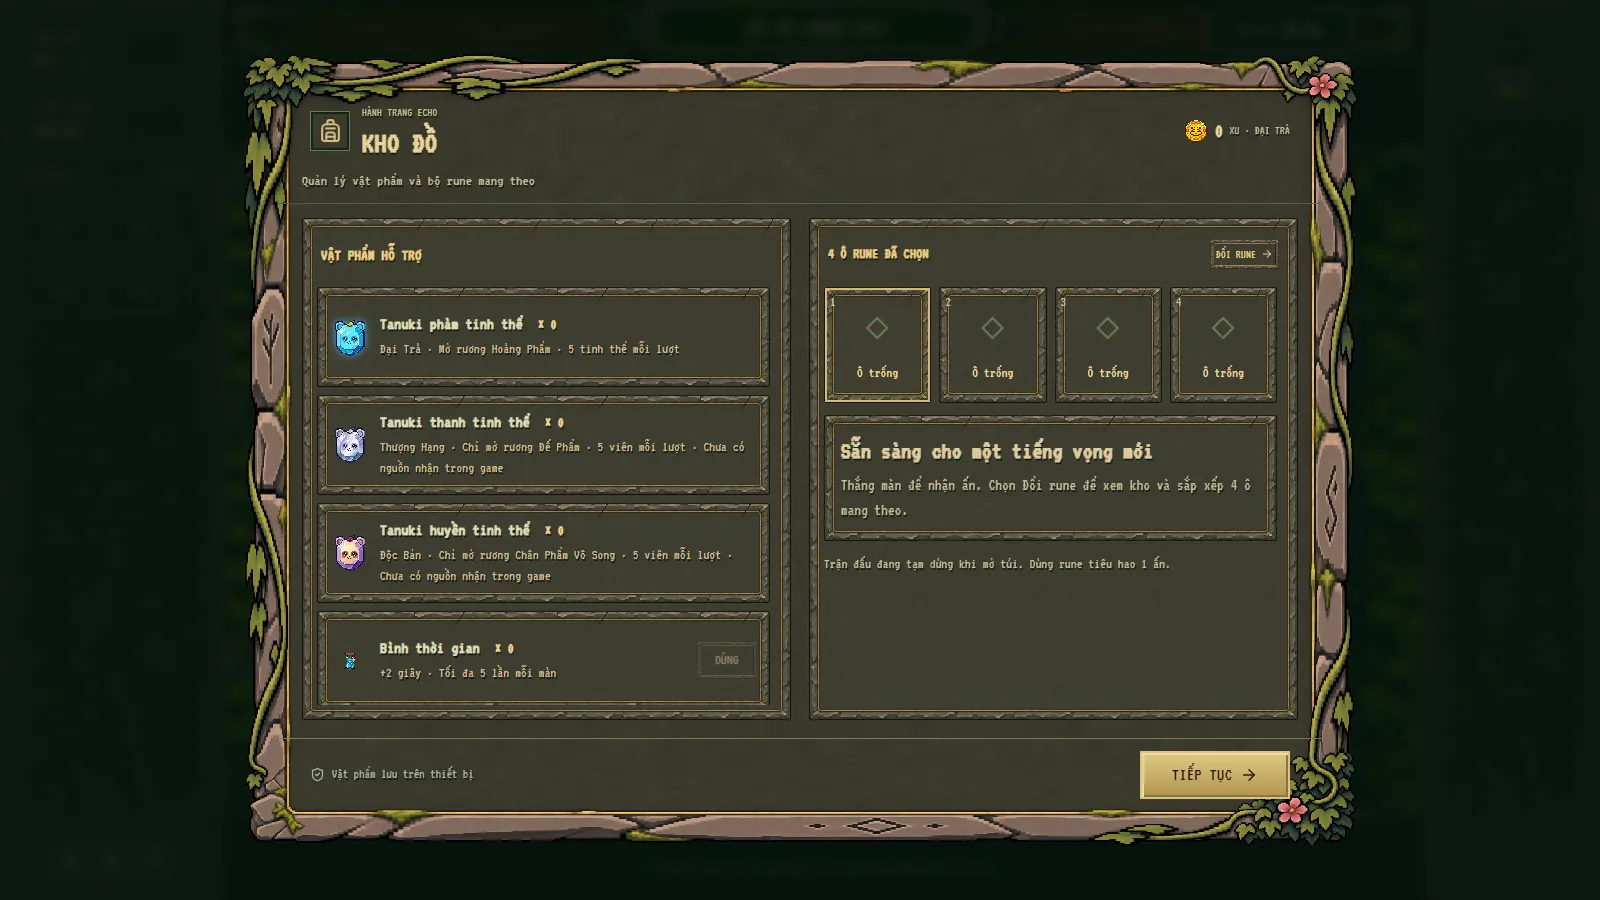
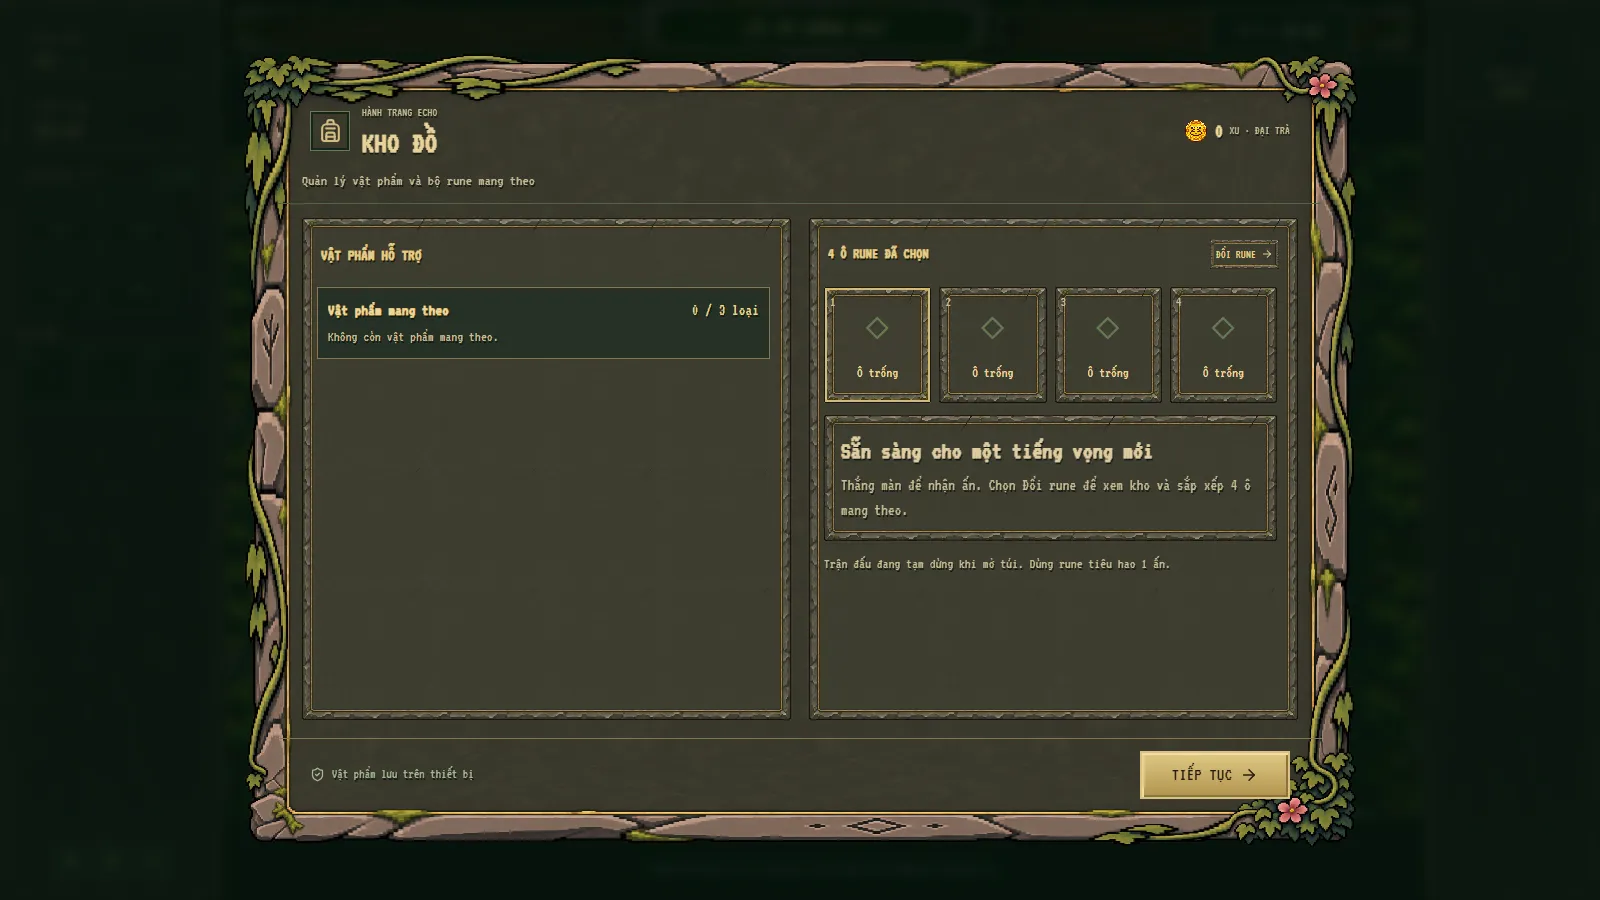
Guide: follow the battle item loadouts
- Keys: 1-3 use the carried item slots, Shift + 1-6 (or 4-6) select an Echo,
  Tab opens the inventory; time potions only work when packed for the battle.
- New page "Packing items for a battle" with a screenshot of the packing
  window; desktop HUD, inventory and phone screenshots captured again.
- check-touch.mjs packs a time potion through the packing window by touch
  before using it; scripts note VITE_GAME_DEV_TOOLS=1 for window.__engine.

Changed region(s): [[0.1875, 0.3111, 0.5, 0.8089]]

diff --git a/src/components/guide/guideContent.ts b/src/components/guide/guideContent.ts
@@ -9,7 +9,7 @@ import { MAX_MP, MP_REGEN_PER_SECOND, MP_REGEN_DELAY, skillManaCost, COMBO_MP } 
 import { ICE_MAGIC, ENEMY_CHILL, FROST_STRIKE } from '../../game/logic/iceMagic.ts';
 import { AERIS_ULT, RAGE } from '../../game/logic/ultimate.ts';
 import { ECHO_RUNES } from '../../game/logic/echoRunes.ts';
-import { SHOP_ITEMS } from '../../game/logic/shopItems.ts';
+import { SHOP_ITEMS, ITEM_LOADOUT_LIMIT } from '../../game/logic/shopItems.ts';
 import { CHEST_PRICES } from '../../game/logic/chest.ts';
 import { HERO_UPGRADE_PRICES, HERO_MAX_RANK, HERO_RESET_FEE_PERCENT } from '../../game/logic/heroUpgrades.ts';
 import { SKILL_PICKUPS } from '../../game/logic/skillPickups.ts';
@@ -55,7 +55,7 @@ export const CONTROLS: { group: L; rows: ControlRow[] }[] = [
     { keys: 'W A S D / ← ↑ → ↓', touch: t('Cần điều khiển (cột trái)', 'Stick (left column)'), action: t('Di chuyển', 'Move') },
     { keys: 'E', touch: t('Nút Ghi hình / Dừng ghi', 'Record / Stop button'), action: t(`Bắt đầu ghi đường đi; bấm lần nữa để lưu (tối đa ${SEC} giây, đủ ${SEC} giây tự lưu)`, `Start recording your path; press again to save (up to ${SEC} s, saved automatically at ${SEC} s)`) },
     { keys: 'Q', touch: t('Nút Gọi Echo', 'Summon Echo button'), action: t('Gọi Echo phát lại bản ghi (tốn 1 lượt Echo)', 'Summon an Echo that replays the recording (costs 1 Echo charge)') },
-    { keys: '1 – 6', touch: t('Nút số trên dải Echo (bấm để chuyển)', 'Number button on the Echo strip (tap to cycle)'), action: t('Chọn Echo', 'Select an Echo') },
+    { keys: 'Shift + 1 – 6 (hoặc 4 – 6)', touch: t('Nút số trên dải Echo (bấm để chuyển)', 'Number button on the Echo strip (tap to cycle)'), action: t('Chọn Echo (phím 1–3 không có Shift là dùng vật phẩm)', 'Select an Echo (1–3 without Shift use items)') },
     { keys: 'C', touch: t('Nút ❚❚ / ▶ trên dải Echo', '❚❚ / ▶ on the Echo strip'), action: t('Tạm dừng / cho Echo đang chọn chạy tiếp', 'Pause / resume the selected Echo') },
     { keys: 'X', touch: t('Nút Thu Echo', 'Recall Echo button'), action: t('Thu hồi Echo đã gọi lâu nhất', 'Recall the oldest Echo') },
     { keys: 'Shift + Q', touch: t('Nút ⇄ trên dải Echo', '⇄ on the Echo strip'), action: t('Đổi chỗ với Echo đang chọn (đường thẳng không được có tường/cổng; tốn 30 ổn định, chờ 7 giây)', 'Swap places with the selected Echo (no wall or gate on the straight line; costs 30 stability, 7 s cooldown)') },
@@ -68,10 +68,11 @@ export const CONTROLS: { group: L; rows: ControlRow[] }[] = [
     { keys: 'Shift', touch: t('Nút Né tránh', 'Dodge button'), action: t('Lướt né (chỉ khi còn quái hoặc boss; chờ 1,2 giây)', 'Dodge (only while enemies or a boss remain; 1.2 s cooldown)') },
   ] },
   { group: t('Vật phẩm & hệ thống', 'Items & system'), rows: [
-    { keys: 'R', touch: t('Túi đồ → Bình thời gian', 'Inventory → Time potion'), action: t('Dùng Bình thời gian: +2 giây cho chặng (tối đa 5 lần mỗi màn)', 'Use a Time potion: +2 s for this leg (up to 5 per level)') },
-    { keys: '—', touch: t('Nút Túi đồ', 'Inventory button'), action: t('Bình hồi máu, năng lượng, ấn nâng Echo', 'Healing and energy potions, Echo runes') },
+    { keys: '1 – 3', touch: t('Túi đồ → DÙNG ở vật phẩm mang theo', 'Inventory → USE on a carried item'), action: t(`Dùng vật phẩm ở ô mang theo 1–${ITEM_LOADOUT_LIMIT} (chọn trước khi vào trận)`, `Use the item in carried slot 1–${ITEM_LOADOUT_LIMIT} (packed before the battle)`) },
+    { keys: 'R', touch: t('Túi đồ → Bình thời gian → DÙNG', 'Inventory → Time potion → USE'), action: t('Dùng Bình thời gian đã mang theo: +2 giây cho chặng', 'Use a carried Time potion: +2 s for this leg') },
+    { keys: 'Tab', touch: t('Nút Túi đồ', 'Inventory button'), action: t('Mở Kho đồ: vật phẩm mang theo và ấn nâng Echo (trận tạm dừng khi mở)', 'Open the inventory: carried items and Echo runes (play pauses while open)') },
     { keys: 'Esc / P', touch: t('Nút ❚❚ góc trên', '❚❚ at the top'), action: t('Tạm dừng / tiếp tục', 'Pause / resume') },
-    { keys: 'T', touch: t('Tạm dừng → Chơi lại màn', 'Pause → Retry level'), action: t('Chơi lại màn', 'Retry the level') },
+    { keys: 'T', touch: t('Tạm dừng → Chơi lại màn', 'Pause → Retry level'), action: t('Chơi lại màn (qua bước chọn vật phẩm mang theo)', 'Retry the level (through the item-packing step)') },
     { keys: 'M', touch: t('Tạm dừng → Cài đặt → Tắt âm', 'Pause → Settings → Mute'), action: t('Bật/tắt âm thanh', 'Mute / unmute') },
     { keys: 'F', touch: null, action: t('Bật/tắt toàn màn hình', 'Toggle full screen') },
     { keys: '—', touch: t('Nút ? góc trên / Tạm dừng → Sổ tay', '? at the top / Pause → Guide'), action: t('Mở sổ tay này', 'Open this guide') },
@@ -139,7 +140,7 @@ export const GUIDE: Section[] = [
   { id: 'controls', letter: 'B', title: t('Điều khiển', 'Controls'), pages: [
     { id: 'pc', title: t('Bàn phím & chuột (PC)', 'Keyboard & mouse (PC)'), blocks: [
       { t: 'controls', rows: CONTROLS.flatMap(g => g.rows) },
-      { t: 'figure', fig: { shot: 'hud-desktop', alt: t('Giao diện chơi trên máy tính', 'The desktop play screen'), caption: t('Cột phải: máu (HP), năng lượng (MP) và các nút chiêu kèm phím tắt. Cột trái: màn, thời gian, ấn Echo, cài đặt và túi đồ.', 'Right column: HP, MP and the ability buttons with their keys. Left column: level, time, Echo runes, settings and inventory.') } },
+      { t: 'figure', fig: { shot: 'hud-desktop', alt: t('Giao diện chơi trên máy tính', 'The desktop play screen'), caption: t('Cột phải: máu (HP), năng lượng (MP) và các nút chiêu kèm phím tắt. Cột trái: màn, thời gian, ấn Echo, ô vật phẩm mang theo (1–3), cài đặt, túi đồ và sổ tay.', 'Right column: HP, MP and the ability buttons with their keys. Left column: level, time, Echo runes, carried item slots (1–3), settings, inventory and this guide.') } },
     ] },
     { id: 'touch', title: t('Điện thoại & máy tính bảng', 'Phones & tablets'), blocks: [
       { t: 'p', text: t('Trên điện thoại, game cần cầm ngang. Tất cả chức năng của bàn phím đều có nút cảm ứng tương ứng (bảng dưới).', 'On phones the game needs landscape. Every keyboard function has a touch equivalent (table below).') },
@@ -165,7 +166,7 @@ export const GUIDE: Section[] = [
     ] },
     { id: 'multi', title: t('Nhiều Echo, hoán đổi, thu hồi', 'Several Echoes, swapping, recalling'), topics: ['multi', 'recycle'], blocks: [
       { t: 'list', items: [
-        t('Mỗi Echo giữ bản ghi riêng. Chọn bằng 1–6 (điện thoại: nút số trên dải Echo).', 'Each Echo keeps its own recording. Select with 1–6 (phones: the number on the Echo strip).'),
+        t('Mỗi Echo giữ bản ghi riêng. Chọn bằng Shift + 1–6 hoặc 4–6 (điện thoại: nút số trên dải Echo).', 'Each Echo keeps its own recording. Select with Shift + 1–6 or 4–6 (phones: the number on the Echo strip).'),
         t('C tạm dừng / cho Echo đang chọn chạy tiếp.', 'C pauses / resumes the selected Echo.'),
         t('X luôn thu Echo đã gọi lâu nhất.', 'X always recalls the oldest Echo.'),
         t('Shift + Q đổi chỗ với Echo đang chọn khi đường thẳng giữa hai bên không có tường hay cổng. Tốn 30 ổn định của Echo, chờ 7 giây (ấn Hoán ảnh: 15 và 4 giây).', 'Shift + Q swaps places with the selected Echo when the straight line between you is free of walls and gates. Costs 30 of its stability, 7 s cooldown (Phasewalk rune: 15 and 4 s).'),
@@ -177,7 +178,7 @@ export const GUIDE: Section[] = [
       { t: 'list', items: [
         t('Mỗi chặng (từ ấn này tới ấn kế tiếp) có thời gian riêng; hết giờ là thua. Tới ấn kế tiếp là nạp lại. Trận boss không tính giờ.', 'Each leg (rune to rune) has its own time; when it runs out you lose. Reaching the next rune refills it. Boss fights are untimed.'),
         t(`Đồng hồ cát xuất hiện gần bạn: nhặt được +${SHARD_BONUS} giây, mỗi chặng một mảnh.`, `An hourglass appears near you: +${SHARD_BONUS} s, one per leg.`),
-        t('Bình thời gian (R hoặc trong túi đồ): +2 giây, tối đa 5 lần mỗi màn.', 'Time potion (R or from the inventory): +2 s, up to 5 per level.'),
+        t('Bình thời gian: +2 giây. Chỉ dùng được bình đã mang theo vào trận (R, phím ô 1–3, hoặc trong túi đồ).', 'Time potion: +2 s. Only potions packed for the battle can be used (R, its slot key 1–3, or the inventory).'),
         t(`Hạ quái: +${ENEMY_TIME_BONUS} giây (không vượt thời gian của chặng) và +1 lượt Echo.`, `Defeating an enemy: +${ENEMY_TIME_BONUS} s (never above the leg's budget) and +1 Echo charge.`),
         t('Xong màn càng nhanh càng nhiều sao (0–3) và xu (0 / 4 / 8 / 12). Mỗi lần thắng được chọn 1 trong 3 ấn nâng Echo.', 'The faster you finish, the more stars (0–3) and coins (0 / 4 / 8 / 12). Every win lets you pick 1 of 3 Echo runes.'),
       ] },
@@ -293,6 +294,14 @@ export const GUIDE: Section[] = [
       { t: 'list', items: [
         t(`Rương Phàm Phẩm: ${CHEST_PRICES.wood.single} xu mỗi lần mở. Rương Hoàng Phẩm: ${CHEST_PRICES.royal.single} Tanuki phàm tinh thể mỗi lần. Phần thưởng ngẫu nhiên (xu, bình, tinh thể…), có lịch sử mở rương. Các rương khác đang được hoàn thiện.`, `Common chest: ${CHEST_PRICES.wood.single} coins per pull. Royal chest: ${CHEST_PRICES.royal.single} Tanuki Common Crystals per pull. Random rewards (coins, potions, crystals…), with a pull history. The other chests are still being finished.`),
         t('Tinh thể nhận được khi thắng màn có sao và khi hạ boss.', 'Crystals come from starred level wins and boss victories.'),
+      ] },
+    ] },
+    { id: 'loadout', title: t('Mang vật phẩm vào trận', 'Packing items for a battle'), blocks: [
+      { t: 'p', text: t(`Trước mỗi trận (vào màn, chơi lại, sang màn kế) hiện cửa sổ "CHỌN VẬT PHẨM VÀO TRẬN". Chọn 1–${ITEM_LOADOUT_LIMIT} loại vật phẩm từ kho; mỗi ô chứa một loại, bấm − / + để chỉnh số lượng. Kho trống thì có nút "VÀO TAY KHÔNG".`, `Before each battle (entering a level, retrying, the next level) the "PACK ITEMS FOR THE BATTLE" window opens. Pick 1–${ITEM_LOADOUT_LIMIT} kinds from your stock; each slot holds one kind, − / + sets the amount. With an empty stock there is an "ENTER EMPTY-HANDED" button.`) },
+      { t: 'figure', fig: { shot: 'battle-prep', alt: t('Cửa sổ chọn vật phẩm vào trận', 'The item-packing window') } },
+      { t: 'list', items: [
+        t('Trong trận chỉ dùng được vật phẩm đã mang theo: phím 1–3 theo từng ô (máy tính có ô vật phẩm ở cột trái), hoặc nút DÙNG trong túi đồ (Tab).', 'In battle only packed items can be used: keys 1–3 by slot (desktop shows the slots in the left column), or USE in the inventory (Tab).'),
+        t('Nhẫn giới hạn Echo, Trục phục sinh và 3 cơ hội: mỗi trận mang tối đa 1.', 'Echo limit ring, Revival scroll and Three chances: at most 1 per battle.'),
       ] },
     ] },
     { id: 'upgrades', title: t('Nâng cấp nhân vật', 'Hero upgrades'), blocks: [
